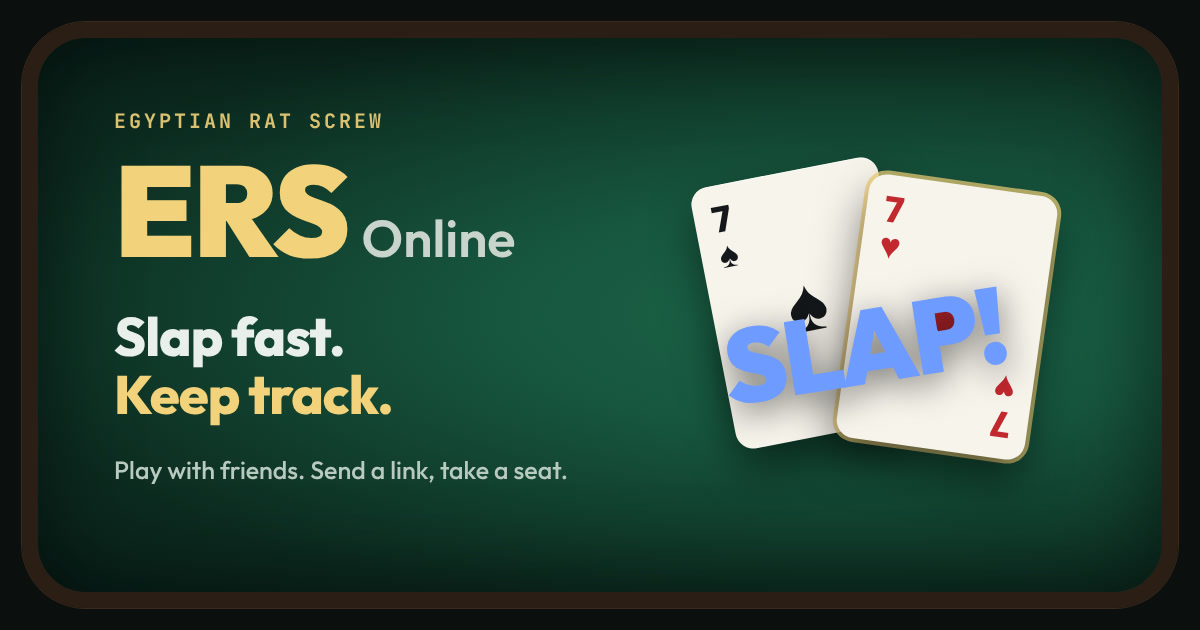
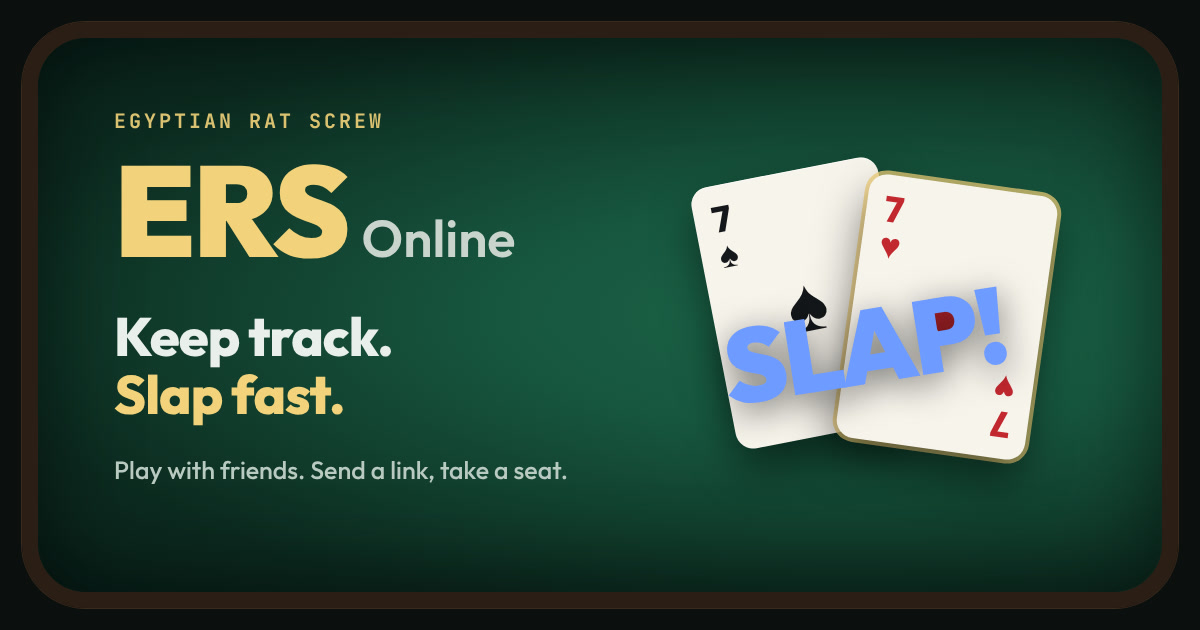
Tagline: Keep track. Slap fast.

Changed region(s): [[0.0925, 0.4825, 0.3392, 0.6937]]

diff --git a/client/index.html b/client/index.html
@@ -21,14 +21,14 @@
     <meta property="og:type" content="website" />
     <meta property="og:site_name" content="ERS Online" />
     <meta property="og:title" content="Join my ERS game · Egyptian Rat Screw" />
-    <meta property="og:description" content="Slap fast. Keep track. Fast online Egyptian Rat Screw with friends. Tap the link to take a seat." />
+    <meta property="og:description" content="Keep track. Slap fast. Fast online Egyptian Rat Screw with friends. Tap the link to take a seat." />
     <meta property="og:image" content="https://ers-online.pages.dev/og-image.jpg" />
     <meta property="og:image:width" content="1200" />
     <meta property="og:image:height" content="630" />
     <meta property="og:image:alt" content="ERS Online: two sevens on a green card table with a big SLAP! across them" />
     <meta name="twitter:card" content="summary_large_image" />
     <meta name="twitter:title" content="Join my ERS game · Egyptian Rat Screw" />
-    <meta name="twitter:description" content="Slap fast. Keep track. Fast online Egyptian Rat Screw with friends." />
+    <meta name="twitter:description" content="Keep track. Slap fast. Fast online Egyptian Rat Screw with friends." />
     <meta name="twitter:image" content="https://ers-online.pages.dev/og-image.jpg" />
     <link rel="preconnect" href="https://fonts.googleapis.com" />
     <link rel="preconnect" href="https://fonts.gstatic.com" crossorigin />

diff --git a/client/src/pages/Home.tsx b/client/src/pages/Home.tsx
@@ -97,9 +97,9 @@ export default function Home() {
           <div>
             <p className="home-eyebrow">ERS · Egyptian Rat Screw</p>
             <h1 className="home-title">
-              Slap fast.
+              Keep track.
               <br />
-              <span className="accent">Keep track.</span>
+              <span className="accent">Slap fast.</span>
             </h1>
             <p className="home-lead">
               The fast card-slapping game, online. Make a table and send the link to friends, or jump into an open table with anyone.
